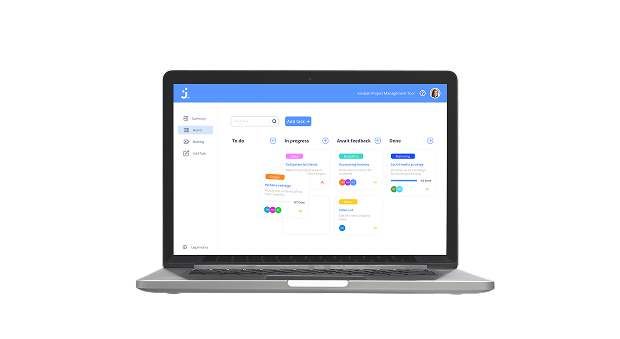
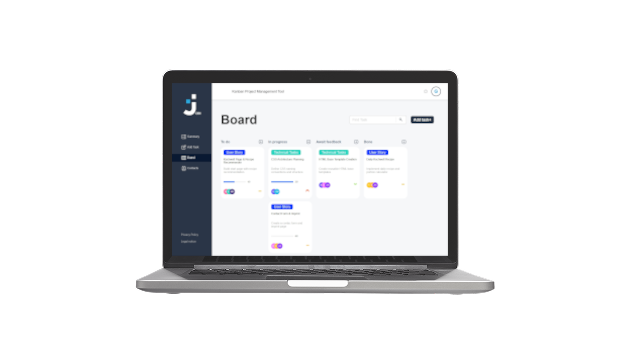
feat(portfolio): mobile header for 950px added, project images updated with originals
- Implemented separate <header class="portfolio_header-mobile"> to accurately match Figma layout at 950px (interpolated between 1440px and 390px breakpoints)
- Adjusted layout and spacing for mobile responsiveness
- Replaced project preview images with original screenshots of my own projects

diff --git a/src/app/main-content/projects/projects.component.scss b/src/app/main-content/projects/projects.component.scss
@@ -3,7 +3,7 @@
 .portfolio {
   max-width: 1440px;
   margin: 0 auto;
-  padding: 72px 0px 40px 0px;
+  padding: 88px 0px 40px 0px;
   background: $color-bg;
   position: relative;
   overflow-x: hidden;
@@ -14,6 +14,11 @@
   display: flex;
   flex-direction: column;
   align-items: flex-end;
+}
+
+.portfolio_header-mobile {
+  margin-bottom: 48px;
+  display: none;
 }
 
 .portfolio_header__wrapper {
@@ -35,7 +40,7 @@
   display: block;
   height: 4px;
   width: 100px;
-  background: $color-secondary;
+  background: $color-primary;
   border-radius: 2px;
   margin: 0 20px;
 }
@@ -64,6 +69,10 @@
   font-size: 16px;
   line-height: 1.2;
   text-align: center;
+}
+
+.portfolio_header_mobile {
+  display: none;
 }
 
 
@@ -101,7 +110,7 @@
   width: 620px;
   height: 339px;
   object-fit: contain;
-  box-shadow: 0 8px 32px #00000030;
+  z-index: 10;
 }
 
 .portfolio_card-links-container {
@@ -189,7 +198,6 @@
 .portfolio_btn-live {
   background: $color-secondary;
   color: $color-text_primary;
-  box-shadow: 0 2px 12px #9747ff44;
   border: none;
 }
 
@@ -224,3 +232,107 @@
   pointer-events: none;
   z-index: 0;
 }
+
+
+
+
+@media (max-width: 950px) {
+
+  .portfolio_header {
+    display: none;
+  }
+
+  .portfolio_card-links,
+  .portfolio_card-rechts {
+    flex-direction: column;
+  }
+
+  .portfolio_card-links-container,
+  .portfolio_card-rechts-container {
+    align-items: center;
+    text-align: center;
+    padding-top: 35px;
+  }
+
+  .portfolio_card-rechts {
+    align-items: center;
+    flex-direction: column-reverse;
+  }
+
+
+  .portfolio_header-mobile {
+    display: flex;
+    flex-direction: column;
+    align-items: center;
+    width: 100%;
+  }
+
+  .portfolio_header__wrapper-mobile {
+    display: flex;
+    flex-direction: row;
+    width: 100%;
+    justify-content: center;
+    align-items: center;
+  }
+
+  .portfolio_head-content__wrapper-mobile {
+    display: flex;
+    flex-direction: row;
+    width: 100%;
+    justify-content: center;
+    align-items: center;
+  }
+
+  .portfolio_header-mobile-left {
+    position: relative;
+    content: '';
+    width: 100%;
+  }
+
+  .portfolio_header-content__line-left-mobile {
+    content: '';
+    position: absolute;
+    height: 4px;
+    right: 0;
+    left: 62px;
+    background: $color-primary;
+    border-radius: 2px;
+  }
+
+  .portfolio_header-mobile-center {
+    padding: 0 16px;
+  }
+
+  .portfolio_header__headline-mobile {
+    font-size: 90px;
+    font-weight: 700;
+    color: $color-text_primary;
+    line-height: 1.2;
+    letter-spacing: 0.75px;
+    margin: 0;
+  }
+
+  .portfolio_header-content__line-right-mobile {
+    content: '';
+    display: block;
+    height: 4px;
+    width: 100px;
+    background: $color-primary;
+    border-radius: 2px;
+    width: 100%;
+  }
+
+  .portfolio_header-mobile-right {
+    width: 100%;
+    display: flex;
+    justify-content: flex-end;
+  }
+
+  .portfolio_purple-shadow {
+    bottom: 75px;
+  }
+
+
+}
+
+

diff --git a/src/app/main-content/projects/projects.component.html b/src/app/main-content/projects/projects.component.html
@@ -4,7 +4,6 @@
 
 
     <header class="portfolio_header">
-
         <div class="portfolio_header__wrapper">
             <div class="portfolio_header__headlineContainer">
                 <div class="portfolio_header-content__line-left"></div>
@@ -13,8 +12,34 @@
             </div>
             <div class="portfolio_head-content__variety">{{ 'projects.variety' | translate }}</div>
           </div>
-
     </header>
+
+
+    <header class="portfolio_header-mobile">
+
+        
+        <div class="portfolio_header__wrapper-mobile">
+            <div class="portfolio_header-mobile-left">
+                <div class="portfolio_header-content__line-left-mobile"></div>
+            </div>
+            <div class="portfolio_header-mobile-center">
+                <h2 class="portfolio_header__headline-mobile">{{ 'projects.headline' | translate }}</h2>
+            </div>
+            <div class="portfolio_header-mobile-right">
+                <div class="portfolio_header-content__line-right-mobile"></div>
+            </div>
+        </div>
+
+
+
+
+        <div class="portfolio_head-content__wrapper-mobile">
+            <div class="portfolio_head-content__variety-mobile">
+                {{ 'projects.variety' | translate }}
+            </div>
+        </div>
+    </header>
+
 
     <section class="portfolio_content-container">
 
